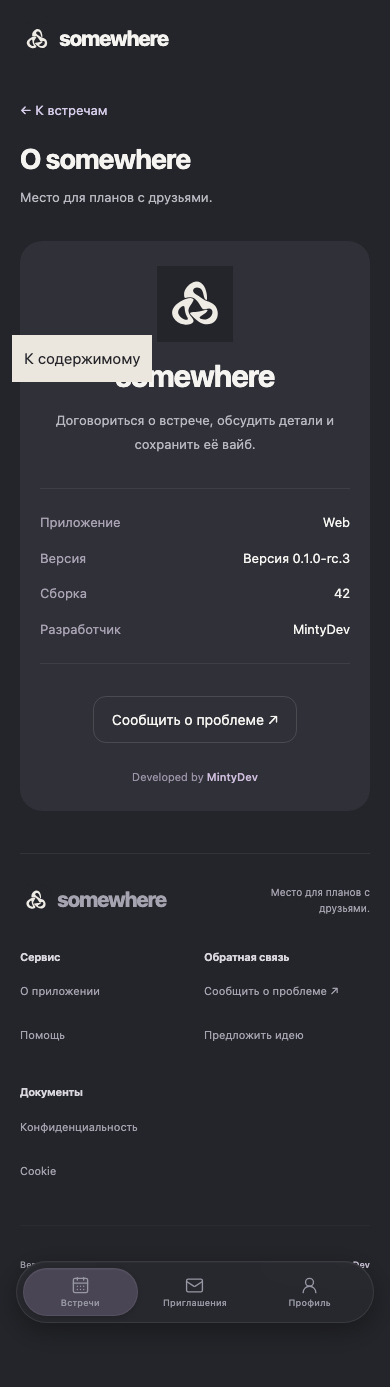
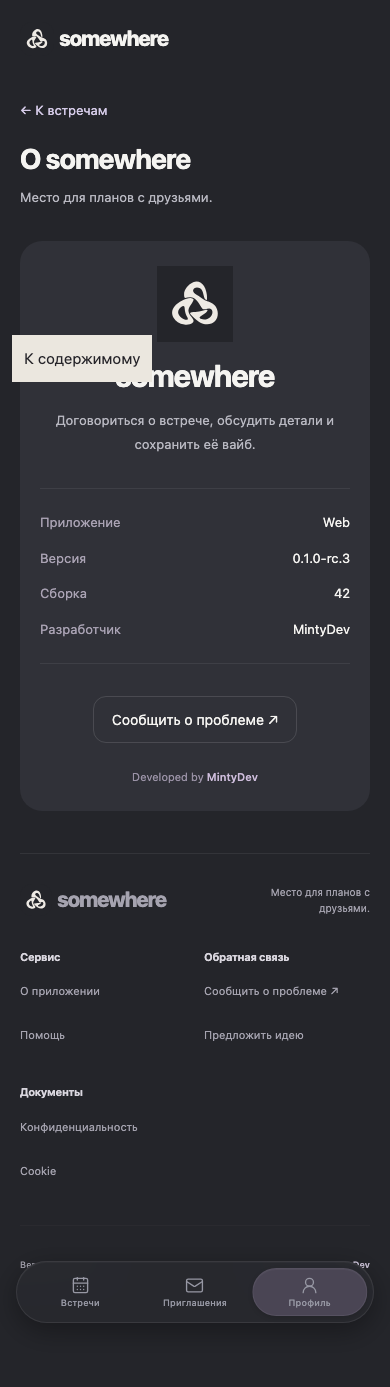
test(releases): verify full web versions and document acceptance

Changed region(s): [[0.6462, 0.8991, 0.9538, 0.9611], [0.0615, 0.8991, 0.3692, 0.9611]]

diff --git a/frontend/web/release-tests/identity.spec.ts b/frontend/web/release-tests/identity.spec.ts
@@ -1,4 +1,5 @@
 import { test, expect } from '@playwright/test';
+import type { Page } from '@playwright/test';
 import { readFileSync, existsSync } from 'node:fs';
 import path from 'node:path';
 import { buildInfoSchema } from '#build-info';
@@ -17,6 +18,21 @@ const readInfo = (variant: string) => {
   return buildInfoSchema.parse(value);
 };
 
+const enlargeText = async (page: Page) => {
+  await page.evaluate(() => {
+    const sizes = Array.from(document.querySelectorAll<HTMLElement>('body, body *'))
+      .filter((element) => element instanceof HTMLElement)
+      .map((element) => ({
+        element,
+        size: parseFloat(getComputedStyle(element).fontSize),
+      }));
+
+    for (const { element, size } of sizes) {
+      element.style.setProperty('font-size', `${size * 2}px`, 'important');
+    }
+  });
+};
+
 test('full version is from the unpacked artifact, without login or API', async ({
   page,
   request,
@@ -25,9 +41,7 @@ test('full version is from the unpacked artifact, without login or API', async (
   const info = readInfo('candidate');
   await page.route('**/api/**', (route) => route.abort());
   await page.goto('/about');
-  await expect(
-    page.locator('dl').getByText(`Версия ${info.version}`, { exact: true }),
-  ).toBeVisible();
+  await expect(page.locator('dl').getByText(info.version, { exact: true })).toBeVisible();
   await expect(
     page
       .getByRole('term')
@@ -53,18 +67,7 @@ test('full version is from the unpacked artifact, without login or API', async (
   }
 
   await page.setViewportSize({ width: 320, height: 900 });
-  await page.evaluate(() => {
-    const sizes = Array.from(document.querySelectorAll<HTMLElement>('body, body *'))
-      .filter((element) => element instanceof HTMLElement)
-      .map((element) => ({
-        element,
-        size: parseFloat(getComputedStyle(element).fontSize),
-      }));
-
-    for (const { element, size } of sizes) {
-      element.style.setProperty('font-size', `${size * 2}px`, 'important');
-    }
-  });
+  await enlargeText(page);
   await expect(footer.getByText(`Версия ${info.version}`, { exact: true })).toBeVisible();
   expect(
     await page.evaluate(() => document.documentElement.scrollWidth <= innerWidth),
@@ -97,24 +100,24 @@ test('an open tab keeps its identity through deployment and rollback', async ({
   await request.post('/__test/select?variant=previous');
   await page.goto('/about');
   await expect(
-    page.locator('dl').getByText(`Версия ${previous.version}`, { exact: true }),
+    page.locator('dl').getByText(previous.version, { exact: true }),
   ).toBeVisible();
   await request.post('/__test/select?variant=candidate');
   await expect(
-    page.locator('dl').getByText(`Версия ${previous.version}`, { exact: true }),
+    page.locator('dl').getByText(previous.version, { exact: true }),
   ).toBeVisible();
   await page.reload();
   await expect(
-    page.locator('dl').getByText(`Версия ${candidate.version}`, { exact: true }),
+    page.locator('dl').getByText(candidate.version, { exact: true }),
   ).toBeVisible();
   await request.post('/__test/select?variant=previous');
   await page.reload();
   await expect(
-    page.locator('dl').getByText(`Версия ${previous.version}`, { exact: true }),
+    page.locator('dl').getByText(previous.version, { exact: true }),
   ).toBeVisible();
 });
 
-test('a long RC is readable at 320 px', async ({ page, request }) => {
+test('a long RC is readable at 320 px with enlarged text', async ({ page, request }) => {
   test.skip(
     !existsSync(path.join(root, 'long/dist/build-info.json')),
     'Local long-version artifact is not supplied',
@@ -123,12 +126,17 @@ test('a long RC is readable at 320 px', async ({ page, request }) => {
   await request.post('/__test/select?variant=long');
   await page.setViewportSize({ width: 320, height: 900 });
   await page.goto('/about');
-  await expect(
-    page.locator('dl').getByText(`Версия ${info.version}`, { exact: true }),
-  ).toBeVisible();
+  await enlargeText(page);
+  await expect(page.locator('dl').getByText(info.version, { exact: true })).toBeVisible();
   expect(
     await page.evaluate(() => document.documentElement.scrollWidth <= innerWidth),
   ).toBe(true);
+  const link = page
+    .locator('footer')
+    .getByRole('link', { name: `Версия ${info.version}`, exact: true });
+
+  await expect(link).toHaveAccessibleName(`Версия ${info.version}`);
+  await link.click({ trial: true });
   await page.screenshot({
     path: path.join(root, 'version-long-320.png'),
     fullPage: true,

diff --git a/scripts/release/version_policy.py b/scripts/release/version_policy.py
@@ -103,12 +103,12 @@ def release_notes(manifest):
     artifacts += ['`manifest.json` — состав, версия, коммит, сборка и проверки.',
                   '`SHA256SUMS` — контрольные суммы файлов, включая manifest.']
     sections = [f"Компонент: **{manifest['component']}** · Версия: **{manifest['version']}**",
-        f"Предыдущая окончательная версия: {card['previous_version'] or 'нет'}\n"
-        f"Причина повышения: **{card['bump']}** — {card['reason']}\n"
+        f"Предыдущая окончательная версия: {card['previous_version'] or 'нет'}\n\n"
+        f"Причина повышения: **{card['bump']}** — {card['reason']}\n\n"
         f"Коммит: `{manifest['commit']}` · Сборка: {manifest['build_number']}",
         '## Изменения', bullets(card['changes']), '## Совместимость', card['compatibility'],
-        '## Проверки', 'До создания тега:\n' + bullets(card['checks']),
-        'Проверки артефакта в CI:\n' + bullets(manifest['checks']),
+        '## Проверки', 'До создания тега:\n\n' + bullets(card['checks']),
+        'Проверки артефакта в CI:\n\n' + bullets(manifest['checks']),
         '## Ограничения', card['limitations'], '## Артефакты', bullets(artifacts),
         'Публикация артефактов не выполняет деплой и не загружает приложение в стор.']
     return '\n\n'.join(sections) + '\n'

diff --git a/openspec/changes/release-version-policy/verification.md b/openspec/changes/release-version-policy/verification.md
@@ -1,0 +1,66 @@
+# Verification Report: release-version-policy
+
+Проверено 25.10.2026 через `openspec-verify-change`, схема `spec-driven`.
+Изучены proposal, design, UX, оба delta specs, tasks, изменённый код и
+[результаты проверок](implementation.md). Состояние ниже не означает деплой.
+
+## Summary
+
+| Dimension | Status |
+| --- | --- |
+| Completeness | 11/13 задач закрыты; реализация найдена для 11 ADDED требований. Два завершающих пункта ожидают фиксации общего web-пакета после визуальной приёмки |
+| Correctness | Все 11 требований сопоставлены с кодом; специализированные проверки прошли. Общий штатный E2E — 116 passed / 1 skipped по отчёту web-агента; финальная визуальная приёмка новой типографики ещё не завершена |
+| Coherence | Независимые версии, единый источник metadata, неизменяемость и границы mobile соблюдены. Web: TypeScript/FSD/aliases/style-checks прошли. REMOVED/RENAMED requirements отсутствуют |
+
+## Requirement Implementation Mapping
+
+| Требование | Реализация и доказательство |
+| --- | --- |
+| Независимые последовательности SemVer | `version_policy.py`: parse_tag/history; числовой порядок rc.9/rc.10, изоляция компонент, занятые/устаревшие теги проверены unit-тестами |
+| Выбор значимости изменения | Таблица в docs/releases.md; check_bump сверяет заявленную степень с номером. Семантическую совместимость определяет ответственный по составу выпуска, а не commit-prefix или флаг CI |
+| Политика начальных версий | check_bump требует начальную 0.1.0, документация различает 0.x и 1.x и отдельно утверждаемый первый стабильный контракт |
+| Утверждение конкретного выпуска | prepare.py выдаёт карточку с SHA/составом/проверками без тега; read_card связывает аннотацию с Git. Договорённость владельца документируется отдельно; введённый текст не выдаётся за автоматическое одобрение |
+| Неизменяемость и смена стадии | history/publish блокируют повторное резервирование, закрытые RC-линии и существующий GitHub Release. Финал требует отдельную сборку; тест изменённой карточки останавливает публикацию до вызова gh |
+| Версия приложения и номер мобильной сборки | metadata + неизменённые android.py/ios.py; реальные временные Git-теги RC/финал, rerun и границы 1/9999 проверены для обеих платформ |
+| Полный номер открытого клиента | shared/config + ServiceFooter/AboutContent; raw SemVer в таблице рядом с подписью, полный текст в футере, отдельная сборка; browser smoke с заблокированным API |
+| Достоверные метаданные выпуска | build-identity.ts strict schema; packager передаёт проверенный объект; web_identity.py сверяет архив с manifest даже после пересчёта SHA256; тесты подмены проходят |
+| Работа без релизного контекста | readBuildIdentity/describeBuild; тесты stable/RC/local/demo/ошибочных данных. Demo проверяется также сценарием 31 общего E2E |
+| Версия следует артефакту | Константа внутри JS, никакого latest API; реальное переключение трёх распакованных bundle, старая вкладка, reload и откат проверены Playwright |
+| Доступная подпись версии | Снимки 320/390/1280, 200% текста, длинный RC одновременно при 320/200%, полный accessible name и пробное нажатие; переход Enter из футера проверен |
+
+Шаблон GitHub Release включён в docs/release-description.md; генератор использует
+тот же состав разделов. Файлы/размеры и проверки CI берутся из проверенного
+manifest. Тест генератора подтверждает причину bump и разделение проверок.
+
+## Issues
+
+### CRITICAL
+
+1. **Task 4.2 ещё не закрыта:** общий функциональный прогон уже успешен,
+   но `meeting-experience-refresh` завершает визуальную проверку после изменения
+   шрифтов. Повторить затронутый browser smoke на окончательном состоянии и
+   обновить снимки, затем закрыть пункт.
+2. **Task 6.2 ещё не закрыта:** инфраструктурный коммит 6189f73 в main, но
+   `ServiceFooter`, `AboutContent`, `shared/config/version.ts/index.ts` и
+   `tests/31-release-identity.spec.ts` сохраняет соседний агент вместе со своим
+   проверенным web-пакетом. Дождаться его SHA, проверить diff и финализировать отчёт.
+
+### WARNING
+
+Не выявлены в проверенной части реализации.
+
+### SUGGESTION
+
+Нет.
+
+## Not verified
+
+- Финальная визуальная приёмка и сохранение общей UI-интеграции — идут
+  в соседней задаче; её незавершённые файлы не включаются в наш коммит.
+- Новый production release и отображение его версии на smwhere.ru — отдельный
+  workflow follow-up; этот отчёт подтверждает локальные артефакты и код.
+- Подписанные native-файлы и загрузка в магазины — вне реализации этого изменения;
+  проверена общая нумерация, а не готовность подписей или store-аккаунтов.
+
+Найдены два незавершённых пункта; изменение пока не готово к архивированию.
+Новых тегов, production-деплоя и архивации эта проверка не выполняла.

diff --git a/openspec/changes/release-version-policy/implementation.md b/openspec/changes/release-version-policy/implementation.md
@@ -31,11 +31,13 @@
 | --- | --- |
 | `python3 -m unittest discover -s scripts/release -p 'test_*.py'` | 28 passed: реальные временные Git-репозитории, RC/финал/rerun Android/iOS, порядок и независимость тегов, карточка/SHA, полный набор всех пяти компонентов, подмена версии/карточки, неизменяемость публикации, безопасная распаковка |
 | `vitest run scripts/build-identity.test.ts` | 4 passed: strict metadata, stable/RC/dev/demo/неполные данные, посторонняя VITE_APP_VERSION, разделение версии и сборки |
-| `validate_web_builds.py --output .cache/release-policy-ui-3` | Три сборки TypeScript/Vite; 3 browser tests passed |
+| `validate_web_builds.py --output .cache/release-policy-ui-4` | Три сборки TypeScript/Vite; 3 browser tests passed |
 | Локальное сравнение артефактов | Кандидат `0.1.0-rc.3`, предыдущий `0.1.0-rc.2`, длинный `0.12.34-rc.123`; совпали manifest/build-info/отрисованный номер; открытая вкладка сохранила старый номер, reload сменил его, возврат архива восстановил предыдущий |
 | Доступность версии | API заблокирован, вход не выполнен; 320/390/1280 px, 200% текста, фокус и Enter на ссылке версии; горизонтального переполнения нет |
 | `npm run agent:check`, strict validation обоих связанных changes, `git diff --check` | Passed |
-| Полный `web:check` и основной E2E | Ожидают завершения параллельной работы web; ранний прогон прошёл TypeScript/ESLint, затем выявил оформление CSS в изменяемых файлах соседней задачи. Релизные проверки не отключались |
+| Полный `npm run web:check` | Passed: TypeScript, ESLint, CSS spacing, FSD/AST, Prettier, 72 Vitest tests в 22 файлах |
+| Основной E2E | По отчёту соседнего web-агента: штатный прогон 116 passed, 1 skipped (нужны native-клиенты). `frontend/web/test-results/.last-run.json` подтверждает passed/пустой failedTests. После финальной типографики выполняется прицельная повторная проверка |
+| GitHub CI инфраструктурного коммита `6189f73` | [Repository](https://github.com/etozhenerk/group-planning/actions/runs/40231602942) и [Web](https://github.com/etozhenerk/group-planning/actions/runs/40231602800) — success. Этот коммит ещё не содержит UI соседнего изменения |
 
 Все три сравниваемых архива — локальные тестовые fixtures рабочего дерева,
 а не публикуемые релизы. Их manifest помечены `fixture_only` и
@@ -49,6 +51,12 @@
 [длинный RC](assets/release-identity/version-long-320.png).
 Это доказательство отображения номера; полный визуальный аудит приложения
 остаётся в `meeting-experience-refresh`.
+
+Попытка дополнительного полного E2E на отдельном порту 9444 остановлена:
+общие helpers/specs задают Origin 8444, поэтому возникали CSRF 403. Её результаты
+не используются для оценки приложения; основной успешный прогон выполнен на
+штатном origin. Релизный browser smoke не зависит от этого набора и использует
+отдельный порт 9328 без API.
 
 ## Совместимость и границы
 

diff --git a/openspec/changes/release-version-policy/tasks.md b/openspec/changes/release-version-policy/tasks.md
@@ -19,12 +19,12 @@
 
 - [x] 3.0 Сохранить шаблон GitHub Release в docs/release-description.md и использовать его разделы в генераторе release notes; проверить состав, причину bump, совместимость, отдельные проверки до тега/в CI, ограничения и фактический список файлов тестом генератора и `npm run agent:check`.
 
-- [ ] 3.1 Передать metadata из build.py в web-упаковщик и Vite; явно разделить release/dev/demo, генерировать встроенные данные и build-info.json из одного источника. Проверить отказ release при пустой/неверной версии или несовпадающем component/tag/SHA, переопределение постороннего VITE_APP_VERSION и сохранение локального запуска без тега; выполнить release-tooling tests и `npm run web:check`.
+- [x] 3.1 Передать metadata из build.py в web-упаковщик и Vite; явно разделить release/dev/demo, генерировать встроенные данные и build-info.json из одного источника. Проверить отказ release при пустой/неверной версии или несовпадающем component/tag/SHA, переопределение постороннего VITE_APP_VERSION и сохранение локального запуска без тега; выполнить release-tooling tests и `npm run web:check`.
 - [x] 3.2 Проверять build-info внутри web.tar.gz на равенство manifest до публикации, сохранив совместимость пути отката для старых артефактов. Добавить отрицательный тест подменённой версии при пересчитанных SHA256 и тест полного нового архива; выполнить release-tooling tests и документировать диагностику в docs/releases.md.
 
 ## 4. Подпись версии в web
 
-- [ ] 4.1 В shared/config убрать сокращение SemVer, предоставить одну подпись для ServiceFooter и serviceContent; показывать отдельную «Сборка N» в справке и состояния из UX v1. Проверить stable/RC/dev/demo/отсутствующие metadata, отсутствие runtime-запроса и требований авторизации; выполнить `npm run web:check` и `npm run web:build` с релизными тестовыми данными.
+- [x] 4.1 В shared/config убрать сокращение SemVer, предоставить одну подпись для ServiceFooter и serviceContent; показывать отдельную «Сборка N» в справке и состояния из UX v1. Проверить stable/RC/dev/demo/отсутствующие metadata, отсутствие runtime-запроса и требований авторизации; выполнить `npm run web:check` и `npm run web:build` с релизными тестовыми данными.
 - [ ] 4.2 Сверить футер и справку с ux.md v1 на 320/390/1280 px и увеличенном тексте, включая длинный RC; сохранить снимки. Проверить клавиатуру/полный доступный текст, отсутствие футера в чате/фото и выполнить `npm run web:test:e2e`. Отдельным браузерным сценарием проверить именно распакованный release bundle, поскольку обычный E2E собирает demo.
 
 ## 5. Совместимость mobile и остальных выпусков

diff --git a/openspec/changes/release-version-policy/ux.md b/openspec/changes/release-version-policy/ux.md
@@ -5,7 +5,7 @@
 25.10.2026 пользователь выбрал полный номер в футере: `0.1.0`, для кандидата
 `0.1.0-rc.2`. Это уточняет короткую подпись `0.1` из
 [предыдущего UX](../meeting-experience-refresh/ux.md#футер-версия-и-документы).
-Остальная политика выпуска представлена для рассмотрения в [design.md](design.md).
+Политика выпуска из [design.md](design.md) также принята пользователем для реализации.
 Ниже эскиз изменения существующих компонентов, а не новая страница или проверка
 реализованного интерфейса.
 
@@ -48,6 +48,12 @@ Developed by MintyDev
 Сборка 42
 Developed by MintyDev
 ```
+
+В табличной разметке справки подпись «Версия» находится в `dt`, а полный
+номер без повторения подписи — в соседнем `dd`. `AboutContent` получает
+тот же источник, что и футер. Обычный альбом сохраняет свой футер по
+`meeting-experience-refresh`; ограничение выше относится к чату и
+полноэкранному просмотру фотографии.
 
 Это иллюстративные номера, не утверждение о текущей production-сборке.
 SHA и технический тег остаются в release metadata; в обычной подписи они не нужны.
